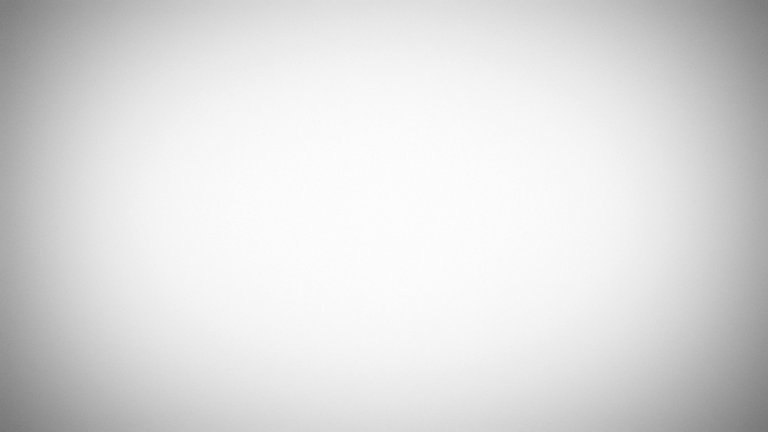
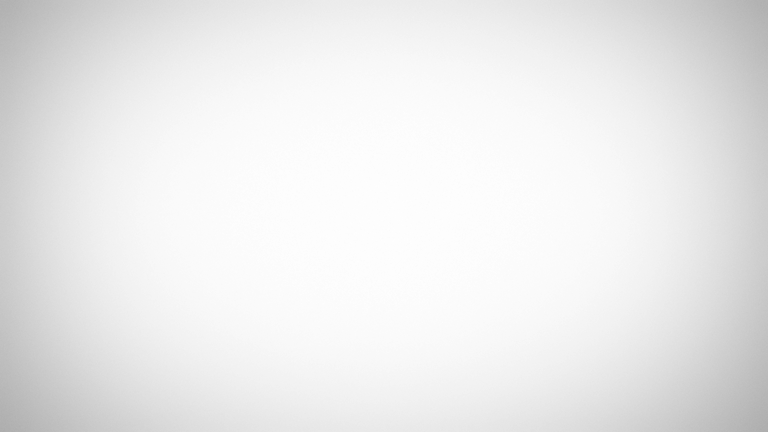
Shimmé le look des articles textuels. Ajouté un article.

Changed region(s): [[0.75, 0.0, 1.0, 1.0], [0.0, 0.0, 0.25, 1.0]]

diff --git a/source/stylesheets/layout.scss b/source/stylesheets/layout.scss
@@ -26,8 +26,12 @@ section {
   background-repeat: no-repeat;
   
   &.text {
-    background-color: #a5d3dd;
-  
+    background-image: url("../images/vignette.png");
+    
+    div.info {
+      text-shadow: none;
+    }
+    
     div.body {
       margin: 72px auto 0;
       color: rgba(0,0,0,0.75);
@@ -38,7 +42,13 @@ section {
       p {
         margin: 0 0 10px;
       }
-  
+      
+      blockquote {
+        margin: 0 0 10px 24px;
+        font-size: 18px;
+        opacity: 0.7;
+      }
+      
       dt {
         @extend .small-sans;
         font-size: 14px;
@@ -87,13 +97,17 @@ a#vieux {
 }
 
 div.info {
+  text-shadow: 0 0 30px rgba(0, 0, 0, 1);;
   margin: 20px;
   
   time {
     @extend .small-sans;
-    padding: 8px 10px 8px 0;
-    margin-right: 10px;
-    border-right: 1px solid rgba(255,255,255,0.35);
+    padding: 8px 16px 8px 0;
+  }
+  
+  span.description {
+    padding: 6px 0 8px 10px;
+    border-left: 1px solid rgba(255,255,255,0.35);
   }
   
   span.counter {

diff --git a/source/stylesheets/posts.scss b/source/stylesheets/posts.scss
@@ -2,19 +2,9 @@ section#avion {
   background-image: url("../images/photo-8929.jpg");
 }
 
-section#aeroport {
-  background-color: #a5d3dd;
-//  background-image: url("../images/vignette.png");
-//  color: #333;
-  
-  div.info {
-//    color: #13aaca;
-    
-    time {
-//      border-right-color: rgba(19,170,212,0.35);
-    }
-  }
-}
+section#aeroport   { background-color: #D8D7A6; }
+section#portugal   { background-color: #a5d3dd; }
+section#personne   { background-color: #DDC8D0; }
 
 section#lisbonne   { background-image: url("../images/photo-8943.jpg"); }
 section#eglise     { background-image: url("../images/photo-8974.jpg"); }

diff --git a/source/posts/2013-11-01-portugal.html.md b/source/posts/2013-11-01-portugal.html.md
@@ -1,16 +1,15 @@
 ---
 date: 2013-11-01
-description: Lisbonne
 is_text: true
 ---
 
-Après quelques jours à Lisbonne, je conclus que le Portugal est essentiellement un mélange de Mexique et d’Islande, si par *Mexique* on entend&nbsp;:
+Le Portugal est au fond un mélange de Mexique et d’Islande, si par *Mexique* on entend&nbsp;:
 
-* une moyenne relativement élevée de décibels par mètre&nbsp;carré;
+* une moyenne généreuse de décibels par mètre&nbsp;carré;
 * la présence de palmiers et l’absence tragique de beurre d’arachide;
-* un gars qui s’agrippe à l’extérieur d’un tramway en mouvement, et un contrôleur qui tente de le déloger en lui donnant des coups de machine à valider les tickets;
+* un gars qui s’agrippe à l’extérieur d’un tramway en mouvement, et un contrôleur qui tente (sans succès) de le déloger en lui donnant des coups de machine à valider les tickets;
 
 et si par *Islande* on entend&nbsp;:
 
 * un pays d’environ 100&nbsp;000 km<sup>2</sup> fondé au IX<sup>e</sup>&nbsp;siècle;
-* des habitants composés principalement de morue, si on se fie aux étals des marchés.
+* des habitants vraisemblablement composés principalement de morue.

diff --git a/source/posts/2013-11-03-personne.html.md b/source/posts/2013-11-03-personne.html.md
@@ -1,0 +1,16 @@
+---
+date: 2013-11-03
+is_text: true
+---
+
+Reçu ce courriel, qu’on a aimablement traduit, je présume en raison de mon nom français ostentatoire&nbsp;:
+
+> Votre réservation est garantie Hostel Namaste, Évora, dans la salle F. Personne, pendant des jours 3, 4, 5 et 6 novembre.
+
+Que tente de dire la deuxième phrase&nbsp;? Pas très clair. Peut-être qu’il n’y aura personne d’autre pour les dates susmentionnées, mais drôle de chose à mentionner dans une confirmation de réservation.
+
+La bonne réponse, bien sûr, est qu’il n’y a pas de deuxième phrase. Le point après «&nbsp;F&nbsp;» est abréviatif, car la chambre est nommée en l’honneur de l’écrivain et poète Fernando Pessoa.
+
+*Pessoa* en portugais signifie *personnne*.
+
+Merci Google Translate, car avec ceci, j’obtiens le nom de mon prochain disque dur, Fernando Personne.

diff --git a/source/posts/2013-10-30-eglise.html.md b/source/posts/2013-10-30-eglise.html.md
@@ -1,4 +1,4 @@
 ---
 date: 2013-10-30
-description: L'église São Domingos à Lisbonne, shimmée par un incendie en 1959.
+description: L'église São Domingos à Lisbonne, shimmée solidement par un incendie en 1959.
 ---

diff --git a/source/posts/2013-11-04-os.html.md b/source/posts/2013-11-04-os.html.md
@@ -1,4 +1,4 @@
 ---
 date: 2013-11-04
-description: Mine de rien, les murs de cette chapelle sont couverts d’os humains. Évora.
+description: Capela dos Ossos, Évora.
 ---

diff --git a/source/posts/2013-10-28-aeroport.html.md b/source/posts/2013-10-28-aeroport.html.md
@@ -4,7 +4,7 @@ description: Aéroport de Lisbonne
 is_text: true
 ---
 
-À la douane portugaise.
+À la frontière portugaise.
 
 <dl>
   <dt>Employé de l’aéroport</dt>

diff --git a/source/posts/2013-11-07-abandonnee.html.md b/source/posts/2013-11-07-abandonnee.html.md
@@ -1,4 +1,4 @@
 ---
 date: 2013-11-07 21:00:00
-description: Maison abandonnée, Tomar.
+description: Maison abandonnée comme il y en a tant, Tomar.
 ---

diff --git a/source/posts/2013-11-02-sardine.html.md b/source/posts/2013-11-02-sardine.html.md
@@ -1,4 +1,4 @@
 ---
 date: 2013-11-02
-description: Sardine o’clock, Lisbonne.
+description: Sardines entre voisins, Lisbonne.
 ---
